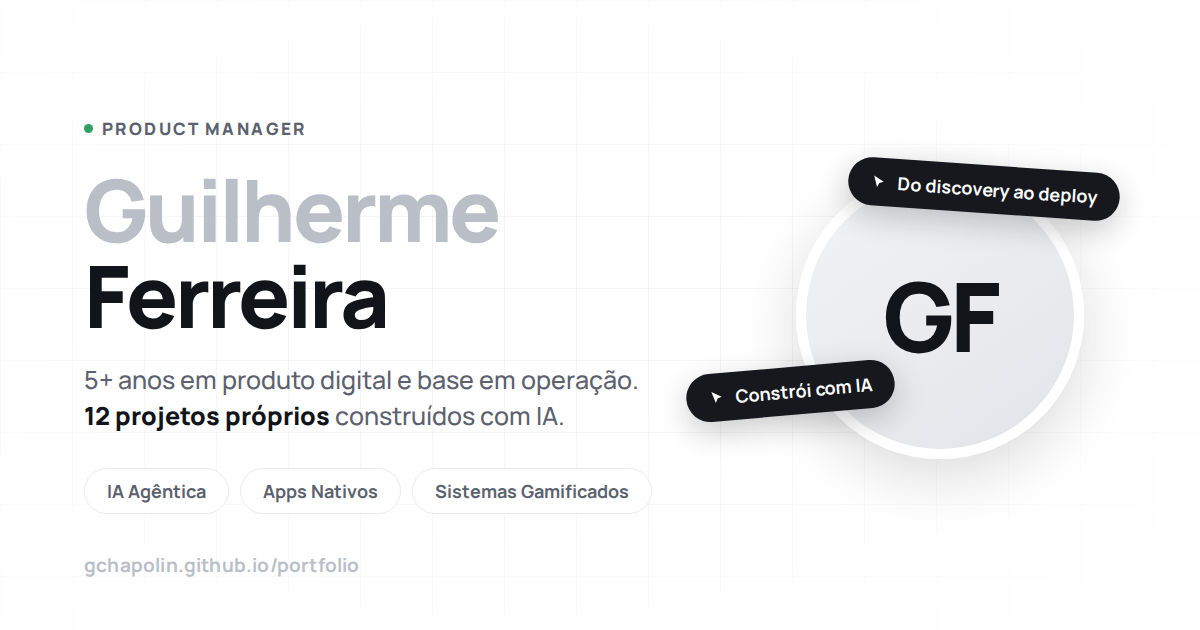
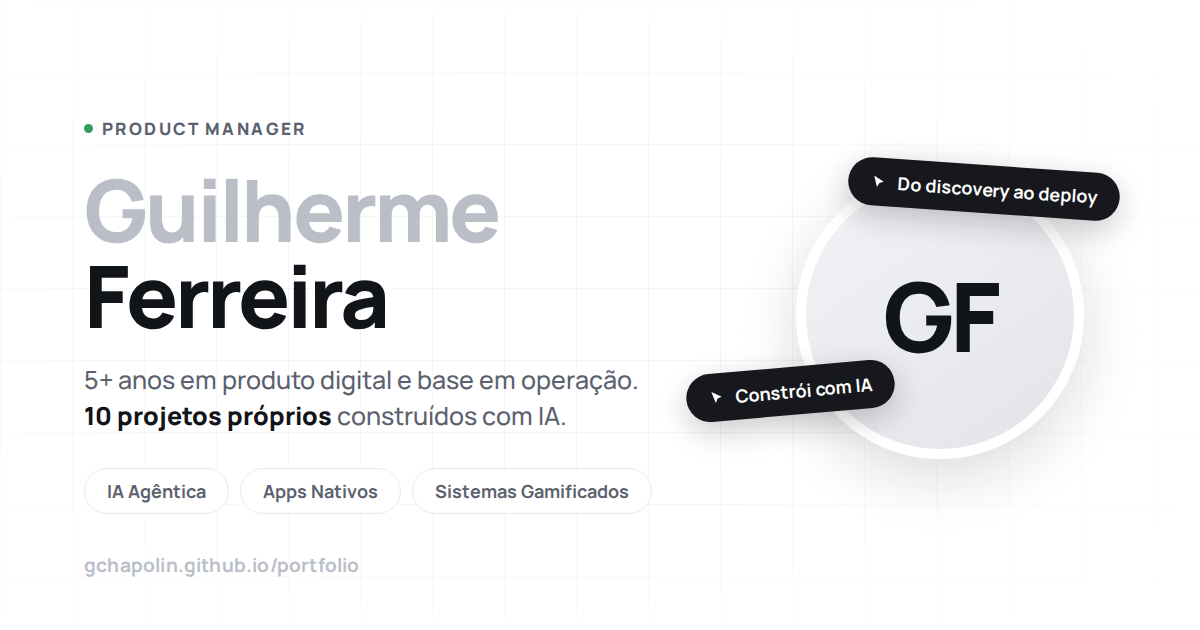
feat: remove Taverna e o curso "Desenvolvimento com Claude para PMs"
- saem os dois cards; ficam 10 projetos proprios + 1 em equipe
- hero e CTA se ajustam sozinhos ({count}); meta description social e
  og-image.png regeneradas com a contagem nova
- nenhuma referencia cruzada aos dois ficou pendurada no restante do conteudo

Claude-Session: https://claude.ai/code/session_0116ipSWpU5cx2xedxUTsAL7

Changed region(s): [[0.0617, 0.6333, 0.4625, 0.6937]]

diff --git a/index.html b/index.html
@@ -15,7 +15,7 @@
   <meta property="og:site_name" content="Guilherme Ferreira">
   <meta property="og:url" content="https://gchapolin.github.io/portfolio/">
   <meta property="og:title" content="Guilherme Ferreira — Product Manager que constrói">
-  <meta property="og:description" content="Mais de 5 anos em produto digital e base em operação. 12 projetos próprios construídos de ponta a ponta com IA — apps nativos, agentes e sistemas gamificados.">
+  <meta property="og:description" content="Mais de 5 anos em produto digital e base em operação. 10 projetos próprios construídos de ponta a ponta com IA — apps nativos, agentes e sistemas gamificados.">
   <meta property="og:image" content="https://gchapolin.github.io/portfolio/assets/og-image.png">
   <meta property="og:image:width" content="1200">
   <meta property="og:image:height" content="630">
@@ -26,7 +26,7 @@
   <!-- Twitter / X -->
   <meta name="twitter:card" content="summary_large_image">
   <meta name="twitter:title" content="Guilherme Ferreira — Product Manager que constrói">
-  <meta name="twitter:description" content="Mais de 5 anos em produto digital e base em operação. 12 projetos próprios construídos de ponta a ponta com IA.">
+  <meta name="twitter:description" content="Mais de 5 anos em produto digital e base em operação. 10 projetos próprios construídos de ponta a ponta com IA.">
   <meta name="twitter:image" content="https://gchapolin.github.io/portfolio/assets/og-image.png">
   <link rel="preconnect" href="https://fonts.googleapis.com">
   <link rel="preconnect" href="https://fonts.gstatic.com" crossorigin>
@@ -1190,41 +1190,6 @@
         }
       },
       {
-        id: 'taverna', name: 'Taverna', theme: 't-gamified', status: 'Prototype',
-        tagline: {
-          en: 'An AI game master for tabletop RPGs, built on the Claude Agent SDK',
-          pt: 'Um mestre de RPG com IA para mesas de RPG, construído sobre o Claude Agent SDK'
-        },
-        description: {
-          en: 'A digital RPG table where the Game Master is a Claude agent, built on the Claude Agent SDK with an in-process MCP server exposing 9 game tools. Strict sandbox: an allowlist blocks the SDK’s native tools; character sheets change only through JSON Merge Patch with protected fields; player rolls are asynchronous — the agent requests the roll and must wait. Next.js 14, SQLite, SSE streaming, 40 automated tests and per-turn cost logging.',
-          pt: 'Mesa de RPG digital em que o Mestre é um agente Claude, construído sobre o Claude Agent SDK com servidor MCP in-process expondo 9 ferramentas de jogo. Sandbox rigoroso: allowlist bloqueia as ferramentas nativas do SDK; fichas só mudam via JSON Merge Patch com campos protegidos; rolagens dos jogadores são assíncronas — o agente pede o dado e é obrigado a esperar. Next.js 14, SQLite, streaming por SSE, 40 testes automatizados e custo por turno logado.'
-        },
-        tech: ['Claude Agent SDK', 'MCP', 'Next.js 14', 'SQLite', 'SSE'],
-        features: {
-          en: [
-            'In-process MCP server with 9 game-master tools',
-            'Sandbox: allowlist blocks the SDK’s native Bash/Read tools',
-            'Asynchronous rolls: the GM must wait for the player’s dice',
-            'Character sheets via JSON Merge Patch (RFC 7396) with protected fields',
-            'Rulebook search with relevance-ranked chunks',
-            '40 automated tests and per-turn cost logging'
-          ],
-          pt: [
-            'Servidor MCP in-process com 9 ferramentas de mestre de jogo',
-            'Sandbox: allowlist bloqueia Bash/Read nativos do SDK',
-            'Rolagem assíncrona: o Mestre espera o dado do jogador',
-            'Fichas via JSON Merge Patch (RFC 7396) com campos protegidos',
-            'Busca no livro de regras com ranking por relevância',
-            '40 testes automatizados e custo por turno em log'
-          ]
-        },
-        github: null,
-        highlight: {
-          en: 'The same agentic architecture as Trade Agent, applied to running a game — with the twist that here the agent is prevented, by design, from rolling the players’ dice.',
-          pt: 'Mesma arquitetura agêntica do Trade Agent, aplicada a conduzir um jogo — com o detalhe de que aqui o agente é impedido, por design, de rolar os dados dos jogadores.'
-        }
-      },
-      {
         id: 'retornelo', name: 'Retornelo', theme: 't-apps', status: 'Beta', brand: 'Ferguis',
         live: 'https://retornelo.ferguis.com.br',
         tagline: {
@@ -1327,33 +1292,6 @@
         highlight: {
           en: 'RPG scoring engine with depth-based XP multipliers (5x root, 2x branch, 1x leaf) and alignment bonus system',
           pt: 'Engine de pontuação RPG com multiplicadores de XP por profundidade (5x raiz, 2x ramo, 1x folha) e sistema de bônus por alinhamento'
-        }
-      },
-      {
-        id: 'curso', name: 'Desenvolvimento com Claude para PMs', theme: 't-leadership', status: 'Beta',
-        tagline: {
-          en: 'A 3-module course teaching product managers how to build with Claude',
-          pt: 'Um curso de 3 módulos ensinando gerentes de produto a construir com Claude'
-        },
-        description: {
-          en: 'A structured course for product managers on building real software with Claude, with three modules and evaluation rubrics. Module 1 uses this very site as its case study — walking through the project from conception to deploy.',
-          pt: 'Curso estruturado pra gerentes de produto sobre construir software de verdade com Claude, com três módulos e rubricas de avaliação. O módulo 1 usa este próprio site como estudo de caso — percorrendo o projeto da concepção ao deploy.'
-        },
-        tech: ['Claude Code', 'Curriculum design'],
-        features: {
-          en: [
-            '3 structured modules with evaluation rubrics',
-            'Module 1 case study: this site, from conception to deploy'
-          ],
-          pt: [
-            '3 módulos estruturados com rubricas de avaliação',
-            'Estudo de caso do módulo 1: este site, da concepção ao deploy'
-          ]
-        },
-        github: null,
-        highlight: {
-          en: 'The case study in Module 1 is the same knowledge-graph-informed process that produced this redesign.',
-          pt: 'O estudo de caso do Módulo 1 é o mesmo processo informado por grafo de conhecimento que produziu este redesign.'
         }
       },
       {
